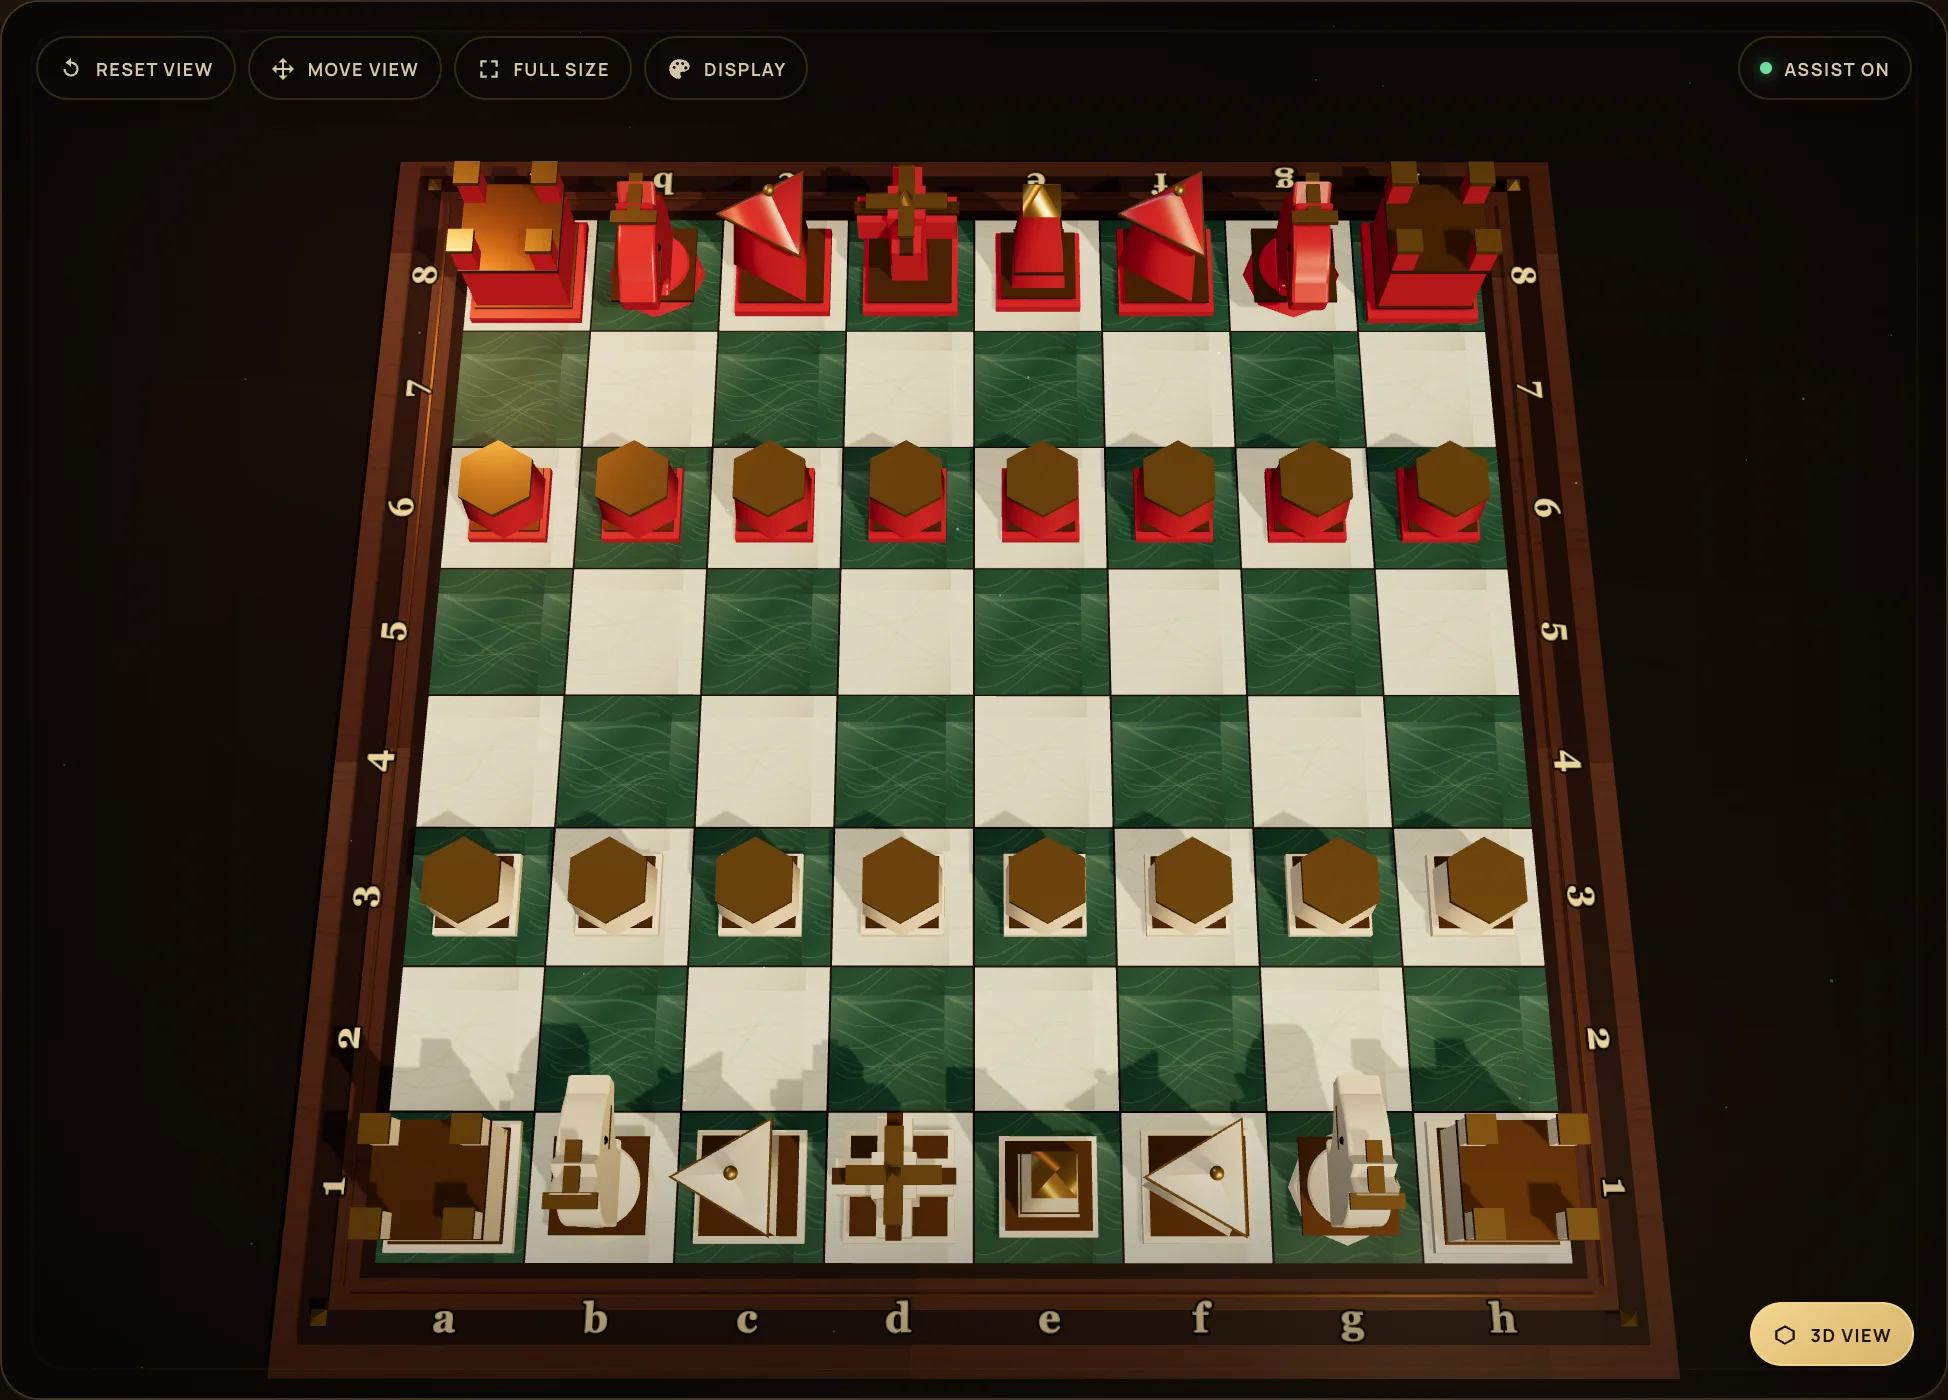
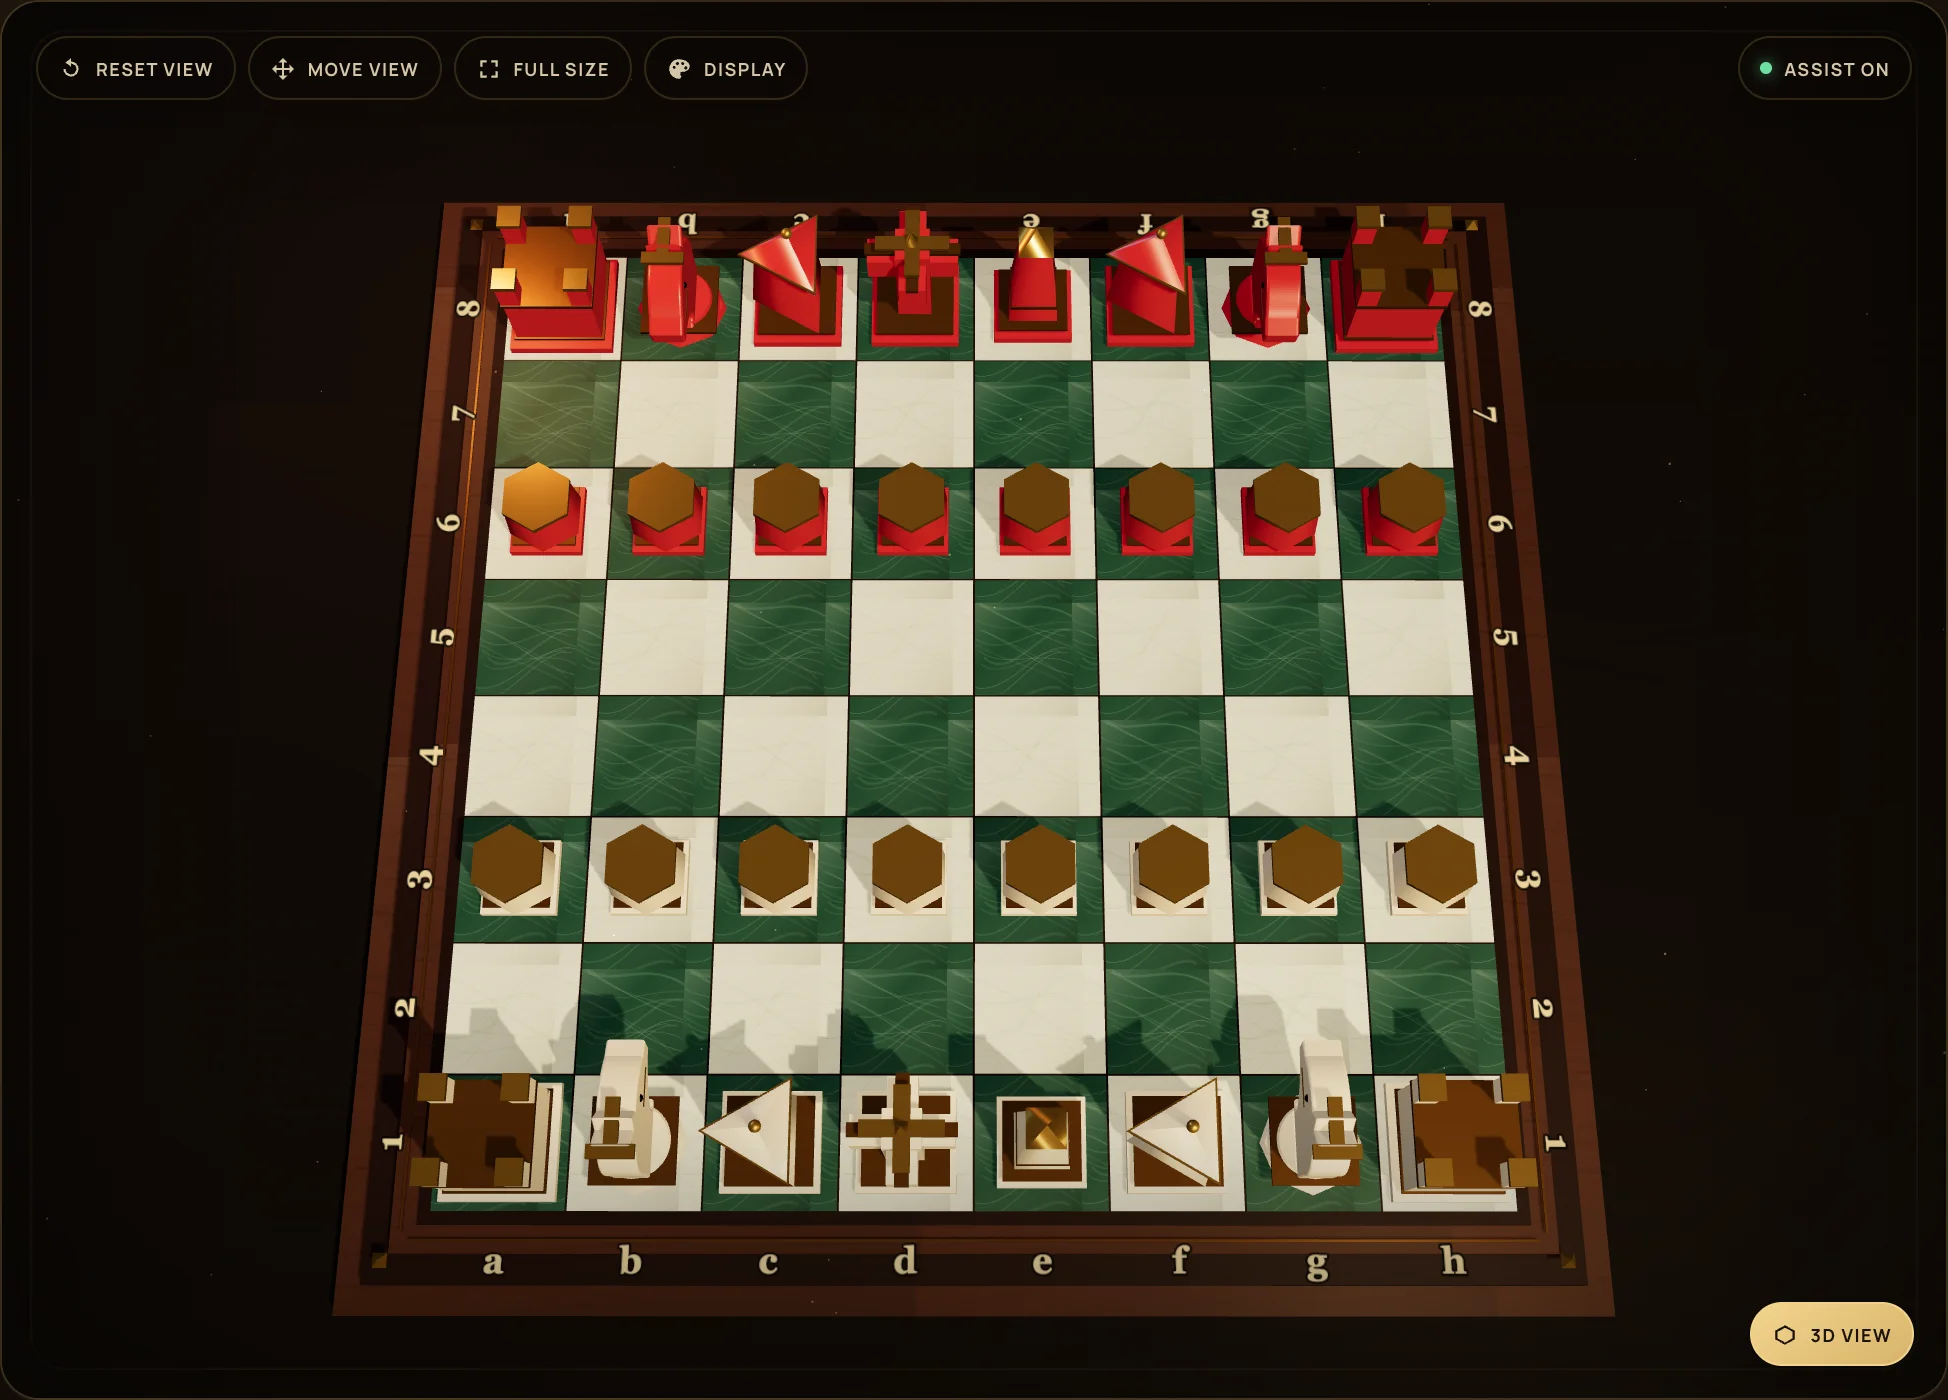
Give the top view more framing room

diff --git a/script.js b/script.js
@@ -3847,7 +3847,7 @@ function setTopView(enabled, { announce = true } = {}) {
     };
     topViewActive = true;
     const aspect = Math.max(0.55, dom.boardStage.clientWidth / Math.max(1, dom.boardStage.clientHeight));
-    const distance = 14.5 * aspectDistanceMultiplier(aspect) * (boardFocus ? 0.9 : 1);
+    const distance = 15.8 * aspectDistanceMultiplier(aspect) * (boardFocus ? 0.9 : 1);
     controls.target.set(0, 0.35, 0);
     camera.position.set(0.001, distance * 0.985, distance * 0.17);
     camera.lookAt(controls.target);
